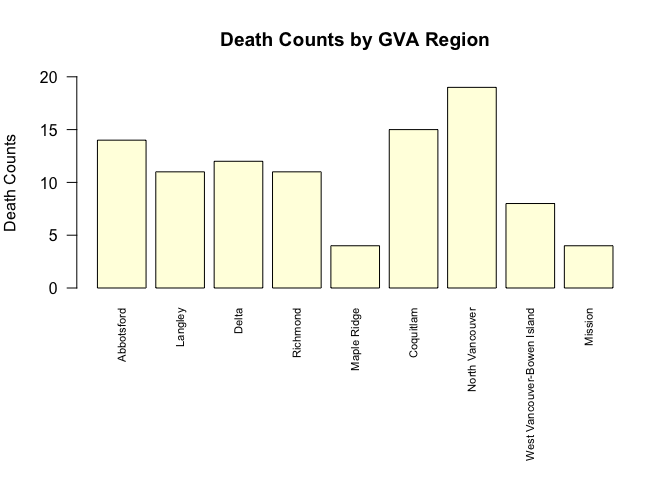
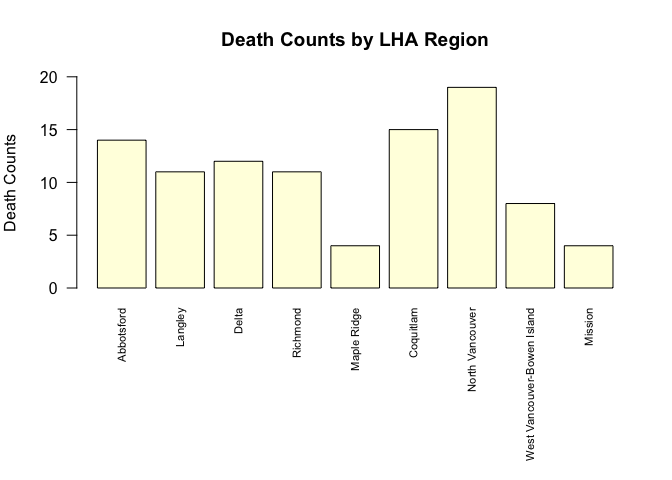
final final final commit

Changed region(s): [[0.3125, 0.0625, 0.75, 0.125]]

diff --git a/m7_walkthrough.md b/m7_walkthrough.md
@@ -1238,7 +1238,7 @@ barplot(gvamap_baseR_hot$death_counts,
         names.arg = gvamap_baseR_hot$LHA_NAME, # Region names on the x-axis
         col = "lightyellow", # Bar colour
         ylab = "Death Counts", # Y-axis label
-        main = "Death Counts by GVA Region", # Plot title
+        main = "Death Counts by LHA Region", # Plot title
         las = 2, # Rotate x-axis labels for readability
         cex.names = 0.7,  # Reduce label size
         ylim = c(0, 20)) # y-axis range
@@ -1315,7 +1315,7 @@ barplot(gvamap_baseR_cold$death_counts,
         names.arg = gvamap_baseR_cold$LHA_NAME, # Region names on the x-axis
         col = "lightblue", # Bar colour
         ylab = "Death Counts", # Y-axis label
-        main = "Death Counts by GVA Region", # Plot title
+        main = "Death Counts by LHA Region", # Plot title
         las = 2, # Rotate x-axis labels for readability
         cex.names = 0.7,  # Reduce label size
         ylim = c(0, 20)) # y-axis range
@@ -1395,7 +1395,7 @@ str(gvamap_hot) # Confirm the merge worked
 ``` r
 plot(gvamap_hot["death_counts"], 
      key.pos = 1,
-     main = "Death Counts by GVA Region")
+     main = "Death Counts by LHA Region")
 ```
 
 ![](m7_walkthrough_files/figure-gfm/unnamed-chunk-44-1.png)<!-- -->
@@ -1426,7 +1426,7 @@ str(gvamap_cold)
 ``` r
 plot(gvamap_cold["death_counts"], 
      key.pos = 1,
-     main = "Death Counts by GVA Region")
+     main = "Death Counts by LHA Region")
 ```
 
 ![](m7_walkthrough_files/figure-gfm/unnamed-chunk-46-1.png)<!-- -->
